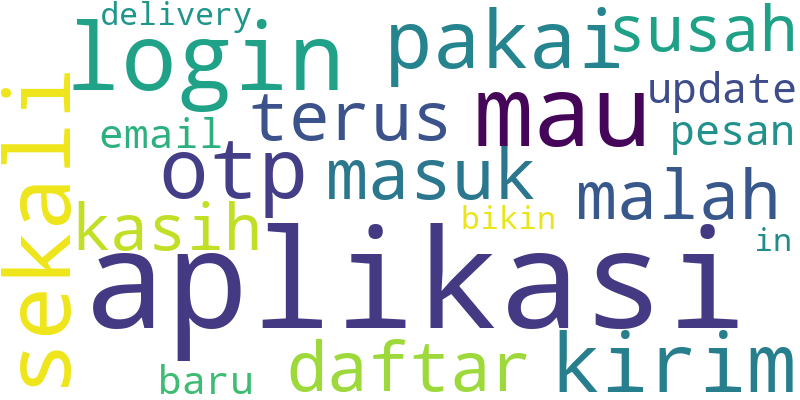
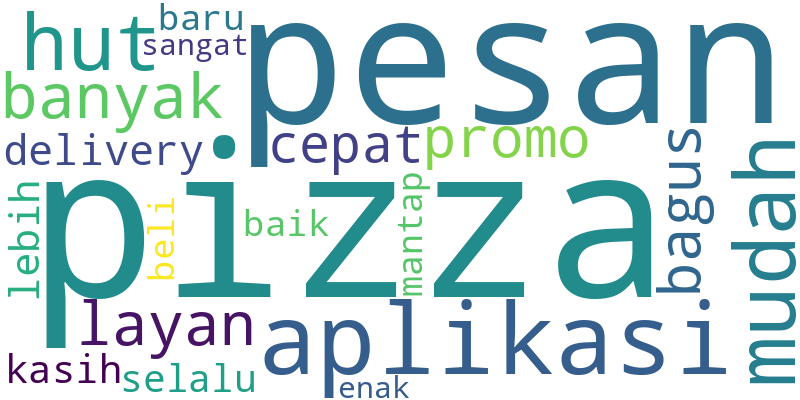
Updated README.md and minor changes

diff --git a/config.py b/config.py
@@ -7,16 +7,20 @@ FLASK_DEBUG = os.getenv("FLASK_DEBUG", "True").lower() == "true"
 
 # Logging configuration
 logging.basicConfig(
-    level=logging.DEBUG,  # Temporarily set to DEBUG to capture all logs
+    level=logging.INFO,  # Temporarily set to DEBUG to capture all logs
     format='%(asctime)s - %(name)s - %(levelname)s - %(message)s'
 )
 logger = logging.getLogger(__name__)
 
-# Ensure the logs are printed to the console explicitly
-console_handler = logging.StreamHandler()
-console_handler.setLevel(logging.INFO)
-console_handler.setFormatter(logging.Formatter('%(asctime)s - %(name)s - %(levelname)s - %(message)s'))
-logger.addHandler(console_handler)
+if logger.hasHandlers():
+    logger.handlers.clear()
+
+# Filter out noisy loggers
+logging.getLogger('urllib3').setLevel(logging.WARNING)
+logging.getLogger('werkzeug').setLevel(logging.WARNING)
+logging.getLogger('matplotlib').setLevel(logging.WARNING)
+logging.getLogger('PIL').setLevel(logging.WARNING)
+logging.getLogger('requests').setLevel(logging.WARNING)
 
 logger.info("Logger initialized successfully!")  # Confirm that logger works
 

diff --git a/main.py b/main.py
@@ -13,7 +13,7 @@ class ReviewLensApp:
         # Enhanced MLflow initialization with error handling
         try:
             # Set the MLflow tracking URI
-            tracking_uri = "http://mlflow:5000"
+            tracking_uri = "http://127.0.0.1:5000"
             mlflow.set_tracking_uri(tracking_uri)
             
             # Verify MLflow connection
@@ -69,7 +69,7 @@ class ReviewLensApp:
                 processed_df = self.text_preprocessor.preprocess_reviews(df, abbreviation_dict)
                 preprocess_duration = time.time() - start_time_preprocess
                 mlflow.log_metric("preprocess_duration_seconds", preprocess_duration)
-                mlflow.log_artifact("cleaned_reviews.csv")  # Log cleaned dataset as artifact
+                mlflow.log_artifact("cleaned_review.csv")  # Log cleaned dataset as artifact
                 logger.info(f"Successfully preprocessed {len(processed_df)} reviews in {preprocess_duration:.2f} seconds")
                 
                 # Step 4: Generate LDA model

diff --git a/README.md b/README.md
@@ -1,18 +1,18 @@
 # Review Lens
-Review Lens is a web application that leverages machine learning to generate insightful word clouds from Google Play Store reviews using Latent Dirichlet Allocation (LDA), a powerful topic modeling algorithm. The application also integrates Prometheus and Grafana for real-time monitoring and evaluation of the model's performance. Additionally, Docker is utilized for containerization, ensuring a smooth and consistent deployment process.
+Review Lens is a web application that leverages machine learning to generate insightful word clouds from Google Play Store reviews using Latent Dirichlet Allocation (LDA), a powerful topic modeling algorithm. The application integrates MLflow for experiment tracking and model management. Additionally, Docker is utilized for containerization, ensuring a smooth and consistent deployment process.
 ![Review Lens](images/review_lens_ui.png)
 
 ## Features
 - **Word Cloud Generation**: Automatically generate word clouds from Google Play Store reviews.
 - **Topic Modeling**: Utilize LDA to identify and visualize key topics from the reviews.
-- **Monitoring and Evaluation**: Integrate Prometheus and Grafana to monitor model performance and application metrics.
+- **Experiment Tracking**: Track experiments and model performance using MLflow.
 - **Containerization**: Easily deploy the application using Docker.
 
 ## Technologies Used
 - **Frontend**: HTML, CSS
 - **Backend**: Flask
 - **Machine Learning**: LDA (Latent Dirichlet Allocation)
-- **Monitoring**: Prometheus, Grafana
+- **ML Experiment Tracking**: MLflow
 - **Containerization**: Docker
 
 ## Installation
@@ -31,45 +31,79 @@ To get started with Review Lens, follow these steps:
    docker-compose up --build
    ```
 4. **Access the application**: Open your web browser and navigate to `http://localhost:8000`.
-5. **Access Prometheus**: Open your web browser and navigate to `http://localhost:9090`.
-6. **Access Grafana**: Open your web browser and navigate to `http://localhost:3000`. Use the default username `admin` and password `admin` to log in.
+5. **Access MLflow UI**: Open your web browser and navigate to `http://localhost:5000`.
 
 ## Usage
 1. **Enter Google Play Store URL**: In the web interface, input the URL of the Google Play Store application for which you want to analyze reviews.
 ![Review Lens](images/review_lens_ui_2.png)
 2. **Generate Word Cloud**: The application will scrape the reviews, process the text, and generate a word cloud based on the identified topics.
 ![Review Lens](images/review_lens_ui_3.png)
-3. **Monitor Performance**: Use the Grafana dashboard to monitor the application's performance and metrics.
+3. **Track Experiments**: Use the MLflow UI to track experiments and model performance.
 
-## Monitoring with Prometheus and Grafana
-To set up monitoring with Prometheus and Grafana:
-1. Ensure Prometheus and Grafana are running in your environment. The `docker-compose.yml` file provided in the repository will handle this setup.
-2. Configure Prometheus to scrape metrics from the Review Lens application. This is done by the `prometheus.yml` configuration file.
-3. Import the Grafana dashboard to visualize the metrics.
-
-### Adding Prometheus as a Data Source in Grafana
-1. **Log in to Grafana**: Open your web browser and navigate to `http://localhost:3000`. Use the default username `admin` and password `admin` to log in.
-2. **Add a new data source**:
-   - Click on the gear icon (⚙) in the left sidebar to go to the Configuration menu.
-   - Click on "Data Sources".
-   - Click on the "Add data source" button.
-3. **Configure Prometheus**:
-   - Select "Prometheus" from the list of available data sources.
-   - In the "HTTP" section, set the URL to `http://localhost:9090`.
-   - Click "Save & Test" to verify the connection.
-4. **Create a new dashboard**:
-   - Click on the "+" icon in the left sidebar and select "Dashboard".
-   - Click on "Add new panel".
-   - In the "Metrics" tab, select your Prometheus data source and enter a Prometheus query to visualize the metrics you are interested in.
-   - Click "Apply" to save the panel.
-Now you can see how the web application is performing using the available metrics.
-
-For detailed setup instructions, refer to the official documentation for [Prometheus](https://prometheus.io/docs/introduction/overview/) and [Grafana](https://grafana.com/docs/grafana/latest/getting-started/getting-started/).
+# Experiment Tracking with MLflow
+MLflow is used to track experiments and manage models in Review Lens:
+![Review Lens](images/mlflow_runs.png)
+![Review Lens](images/mlflow_experiments.png)
+1. **Access MLflow UI**: Navigate to `http://localhost:5000` to access the MLflow tracking interface.
+2. **View Experiments**: In the MLflow UI, you can:
+   - View all experiment runs
+   - Compare different model parameters
+   - Track metrics and model performance
+   - Access saved model artifacts
+   - View topic distribution visualizations
+3. **Tracked Metrics**:
+   - **Time Metrics**:
+     - Scraping duration (seconds)
+     - Preprocessing duration (seconds)
+     - LDA model generation duration (seconds)
+     - Total process duration (seconds)
+   - **Count Metrics**:
+     - Number of reviews processed
+     - Number of scraping requests
+     - Error counts (if any occur)
+4. **Tracked Parameters**:
+   - Model type (LDA)
+5. **Tags**:
+   - Source URL (Google Play Store URL)
+6. **Artifacts**:
+   - Cleaned reviews dataset (CSV)
 
 ## Model Code
 Here is an overview of the main components of the model code:
-- **Scraping Reviews**: The `scrape_reviews` method scrapes reviews from a Google Play Store URL.
-- **Preprocessing**: The `preprocess_reviews` method cleans and preprocesses the text data from the reviews.
-- **LDA Model Generation**: The `generate_lda_model` method builds an LDA model to discover topics within the reviews.
-- **Word Cloud Generation**: The `save_and_plot_word_cloud` method generates and saves word clouds for each topic.
-- **Metrics**: Prometheus metrics are used to monitor various aspects of the application, such as scrape requests, errors, and durations.
+
+### Main Application Class (`ReviewLensApp`):
+- Initializes MLflow tracking and experiment setup
+- Manages the entire review analysis pipeline
+- Handles error logging and experiment tracking
+
+### Core Components:
+1. **Scraping Module** (`scraping.py`):
+   - Uses `google_play_scraper` to fetch reviews
+   - Handles URL validation and error handling
+   - Logs scraping metrics (duration, request count)
+
+2. **Preprocessing Module** (`preprocessing.py`):
+   - Text cleaning and normalization
+   - Tokenization and stemming
+   - Stopword removal
+   - Handles abbreviation dictionary integration
+
+3. **Modeling Module** (`modeling.py`):
+   - Implements LDA (Latent Dirichlet Allocation) modeling
+   - Generates topic distributions
+   - Creates word clouds for visualizations
+
+4. **MLflow Integration**:
+   - Tracks experiment metrics:
+     - Processing durations
+     - Review counts
+     - Error rates
+   - Logs parameters and tags
+   - Stores artifacts (cleaned reviews dataset)
+   - Manages experiment runs and results
+
+5. **Utility Functions** (`utils.py`):
+   - Loads abbreviation dictionary
+   - Provides helper functions for data processing
+
+For detailed setup instructions, refer to the official documentation for [MLflow](https://mlflow.org/docs/latest/index.html).
